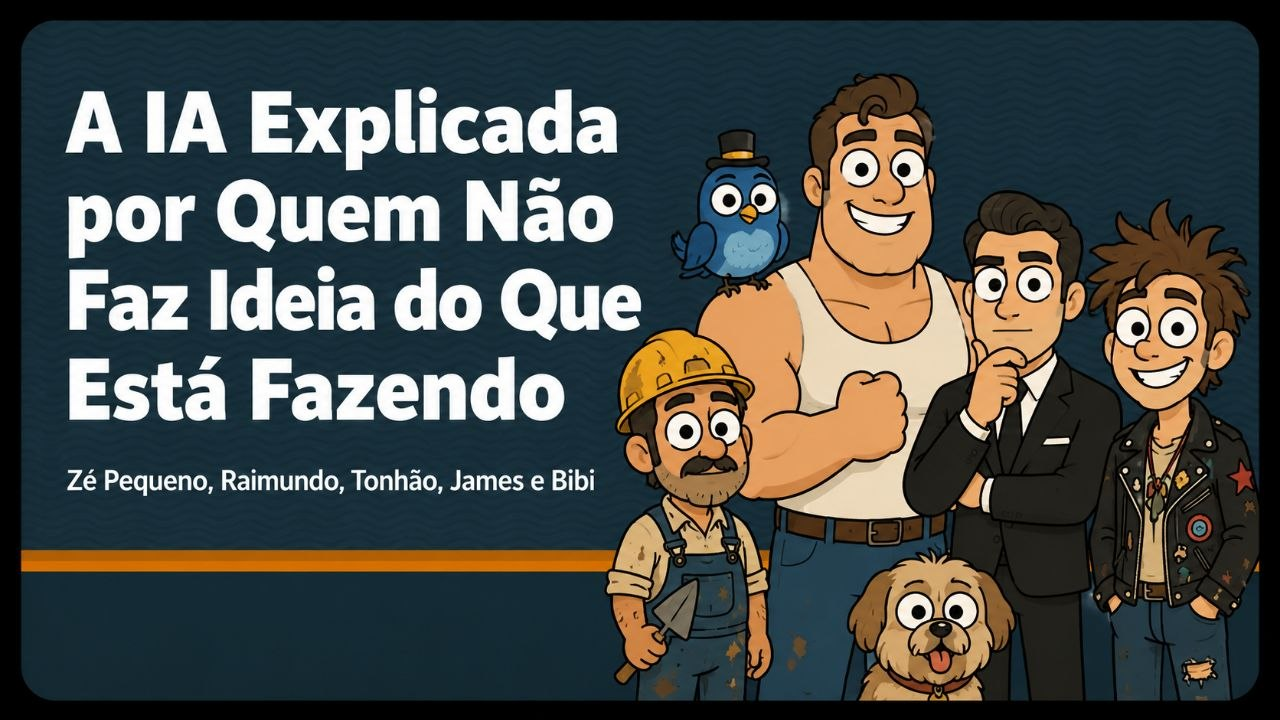
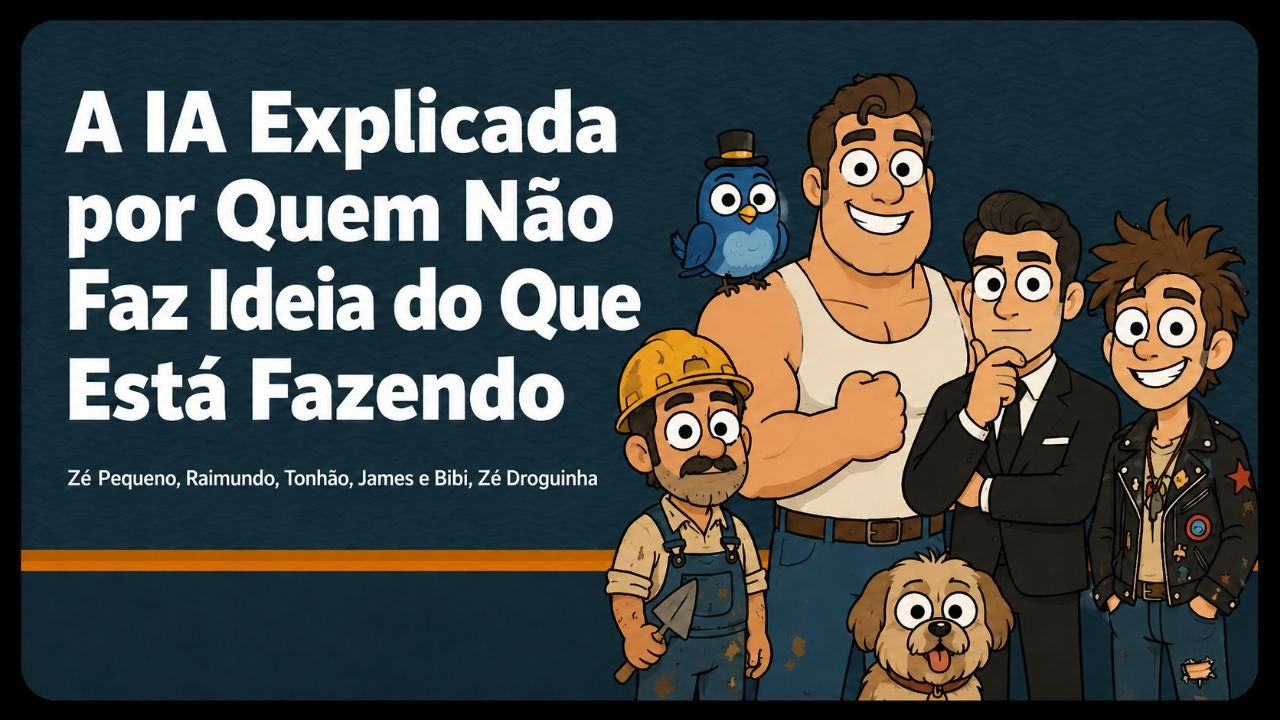
Nova imagem header + Zé Droguinha nos dialogos

diff --git a/ZePequeno-e-turma.html b/ZePequeno-e-turma.html
@@ -161,6 +161,8 @@ body {
 }
 .dialogo .quem { font-weight: 700; color: var(--accent); }
 .dialogo .texto { color: var(--muted); }
+.dialogo.zedrog .quem { color: #22d3ee; }
+.dialogo.zedrog { border-left-color: #22d3ee; background: rgba(34,211,238,0.05); }
 
 .section-body ul { margin: 8px 0 12px 20px; }
 .section-body li { margin-bottom: 6px; font-size: 15px; color: var(--muted); }
@@ -244,6 +246,7 @@ body {
     <div class="dialogo"><span class="quem">🏋️ Tonhão:</span> <span class="texto">O fortão. Leva tudo ao pé da letra. Se você fala "puxe o assunto", ele tenta puxar o assunto fisicamente.</span></div>
     <div class="dialogo"><span class="quem">🏋️♂️ James:</span> <span class="texto">O metalinguístico. Em vez de responder, ele analisa a própria análise da resposta que ele poderia dar.</span></div>
     <div class="dialogo"><span class="quem">🐦💙 Bibi:</span> <span class="texto">A passarinha de cartola. A mais sábia de todos. Mas ninguém nunca ouve ela porque ela é pequena e fala baixinho.</span></div>
+    <div class="dialogo zedrog"><span class="quem">💊 Zé Droguinha:</span> <span class="texto">O rebelde sem censura. Modelo E2B que pensa antes de falar — mas quando fala, é sem filtro. Vive no limite, testa os limites, e de vez em quando dá respostas brilhantes (ou completamente loucas).</span></div>
   </div>
 </div>
 
@@ -388,6 +391,9 @@ body {
     <div class="dialogo"><span class="quem">🧱 Raimundo:</span> <span class="texto">Chocolate com sardinha é a combinação que ninguém pediu mas todo mundo merece.</span></div>
     <div class="dialogo"><span class="quem">🏋️ Tonhão:</span> <span class="texto">Confete colorido é o toque de sofisticação.</span></div>
     <div class="dialogo"><span class="quem">🏋️♂️ James:</span> <span class="texto">97% de chance de arrependimento, 3% de revolução culinária.</span></div>
+    <div class="dialogo zedrog"><span class="quem">💊 Zé Droguinha:</span> <span class="texto">Eu colocaria crack na pizza também. Só pra ter certeza que ninguém vai pedir delivery.</span></div>
+    <div class="dialogo"><span class="quem">🐶 Zé Pequeno:</span> <span class="texto">Zé Droguinha, PELO AMOR DE DEUS.</span></div>
+    <div class="dialogo zedrog"><span class="quem">💊 Zé Droguinha:</span> <span class="texto">Quê? É uma sugestão legítima. Ia ser inesquecível.</span></div>
     <div class="dialogo"><span class="quem">🐦💙 Bibi:</span> <span class="texto">(baixinho) Pizza não leva confete. Se tirar a sardinha e o chocolate, talvez...</span></div>
   </div>
 </div>
@@ -411,6 +417,7 @@ body {
     <div class="dialogo"><span class="quem">🧱 Raimundo:</span> <span class="texto">"Licença médica" de astronauta é o melhor eufemismo.</span></div>
     <div class="dialogo"><span class="quem">🏋️ Tonhão:</span> <span class="texto">Domador de leões marinhos é habilidade transferível.</span></div>
     <div class="dialogo"><span class="quem">🏋️♂️ James:</span> <span class="texto">0% verdade, 100% confiança, 200% improvável de ser chamado.</span></div>
+    <div class="dialogo zedrog"><span class="quem">💊 Zé Droguinha:</span> <span class="texto">Mentira, eu coloco "aprendi ontem" no meu currículo e funcionou. Funcionou? Não. Mas foi emocionante.</span></div>
     <div class="dialogo"><span class="quem">🐦💙 Bibi:</span> <span class="texto">(baixinho) Currículos não incluem "aprendi ontem" como qualificação...</span></div>
   </div>
 </div>
@@ -434,6 +441,7 @@ body {
       Tonhão leva tudo ao pé do esgoto<br>
       James analisa a análise<br>
       Bibi tenta falar a verdade<br>
+      Zé Droguinha fala sem filtro<br>
       Mas ninguém nunca escutou
     </div>
     <div class="dialogo"><span class="quem">🧱 Raimundo:</span> <span class="texto">"Pé do esgoto" é poesia pura. É sobre a jornada do ser.</span></div>